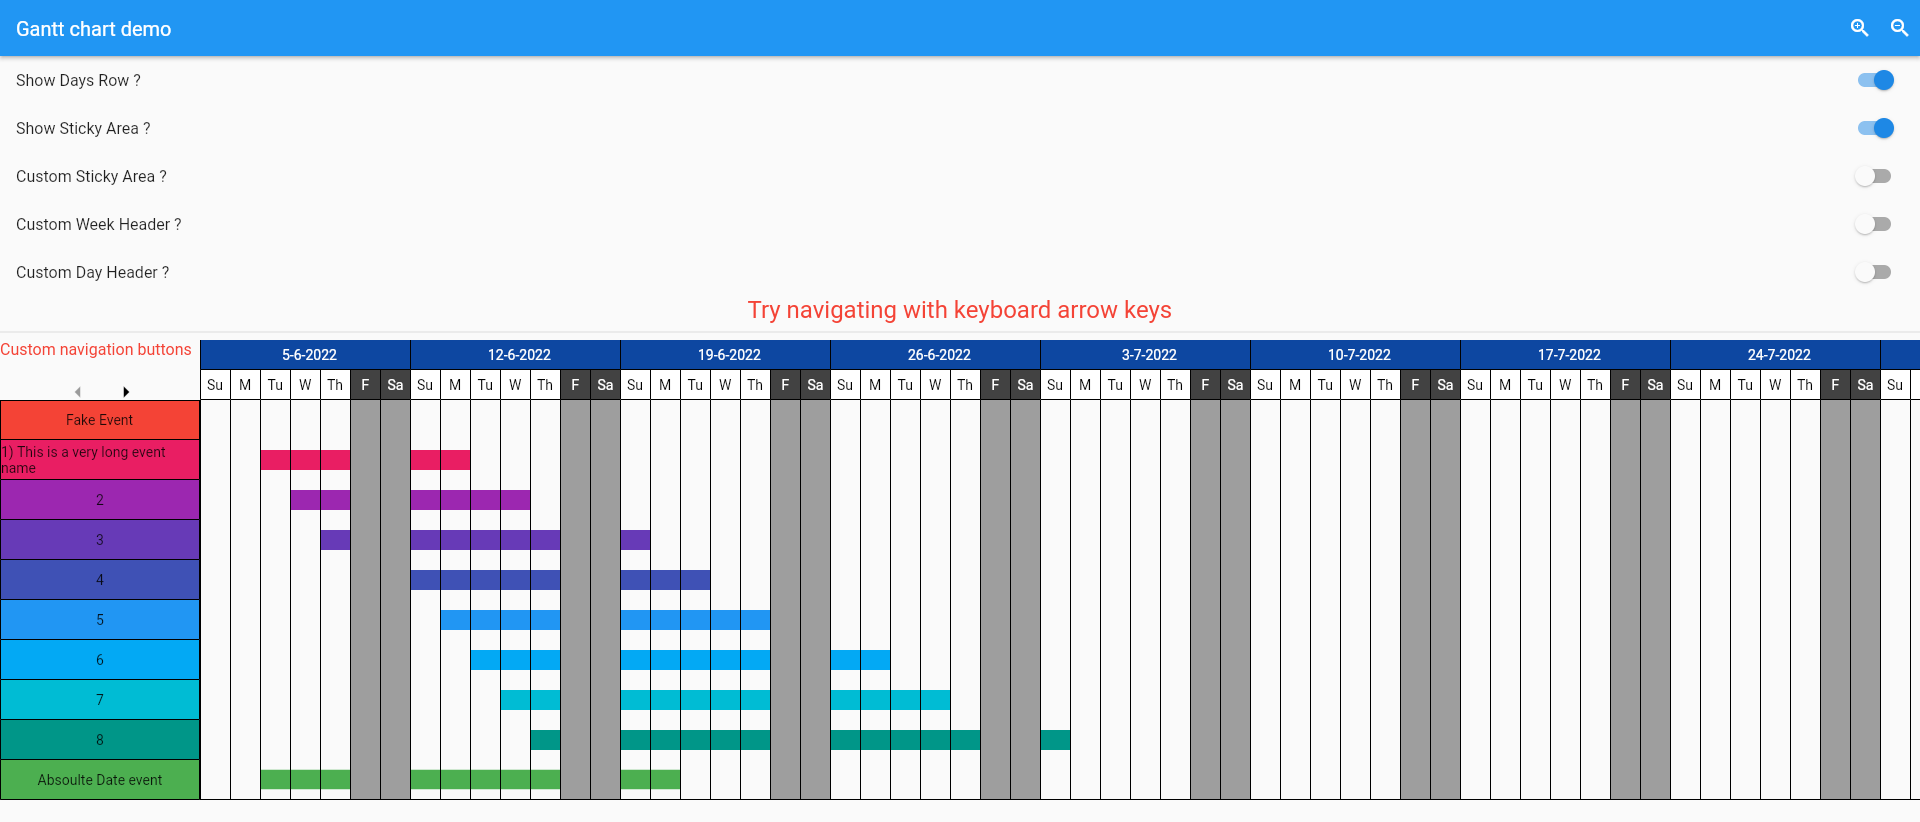
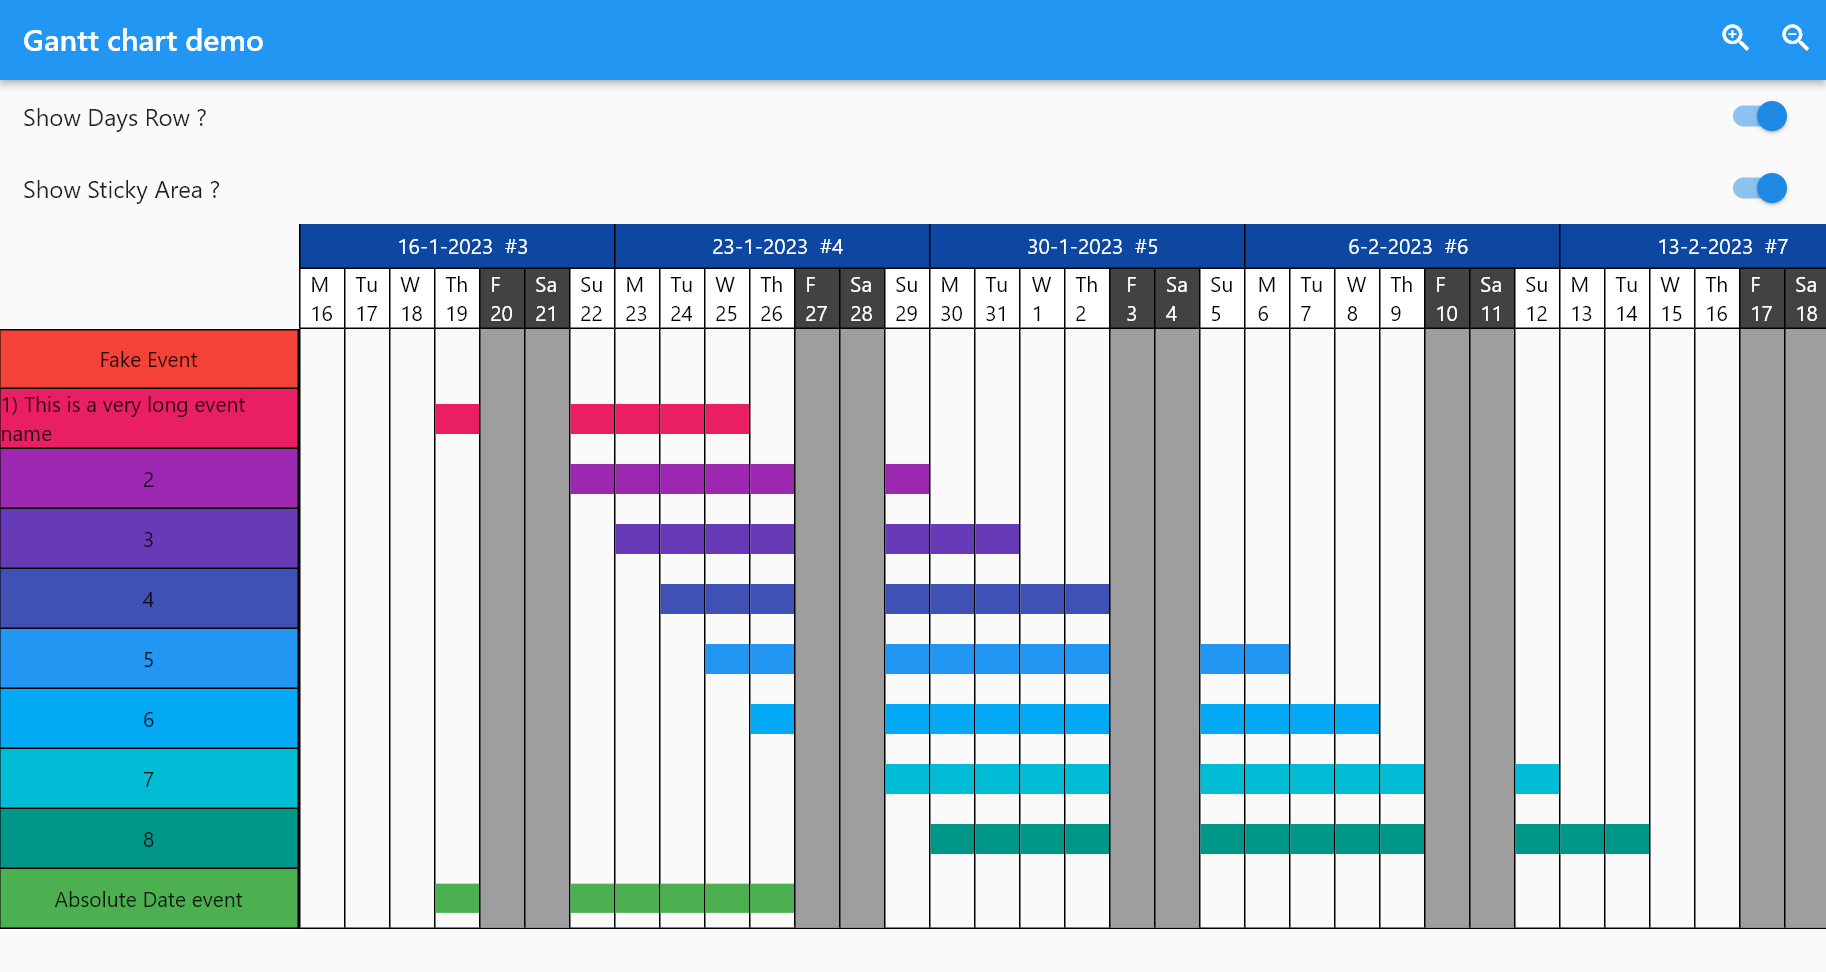
Some additions 2 (#6)
* adding day n° + week number
* added dependency on week_of_year

---------

diff --git a/lib/src/gantt_view.dart b/lib/src/gantt_view.dart
@@ -28,7 +28,7 @@ class GanttChartView extends StatefulWidget {
     this.dayWidth = 30,
     this.eventHeight = 30,
     this.weekHeaderHeight = 30,
-    this.dayHeaderHeight = 30,
+    this.dayHeaderHeight = 40,
     this.weekEnds = const {WeekDay.friday, WeekDay.saturday},
     this.dayHeaderBuilder,
     this.weekHeaderBuilder,
@@ -95,7 +95,8 @@ class GanttChartView extends StatefulWidget {
   /// the week header builder (gets called for every week)
   ///
   /// [weekDate] is the start of the week, which will always be a [startOfTheWeek]
-  final Widget Function(BuildContext context, DateTime weekDate)? weekHeaderBuilder;
+  final Widget Function(BuildContext context, DateTime weekDate)?
+      weekHeaderBuilder;
 
   /// Show sticky row headers on the left
   final bool showStickyArea;
@@ -104,7 +105,8 @@ class GanttChartView extends StatefulWidget {
   final double stickyAreaWidth;
 
   /// the day header builder
-  final Widget Function(BuildContext context, DateTime date, bool isHoliday)? dayHeaderBuilder;
+  final Widget Function(BuildContext context, DateTime date, bool isHoliday)?
+      dayHeaderBuilder;
 
   /// Custom builder for the event row per week
   ///
@@ -177,7 +179,9 @@ class GanttChartViewState extends State<GanttChartView> {
   final eventColors = <Color>[];
   void initFromCurrentWidget() {
     eventColors.clear();
-    eventColors.addAll(widget.events.mapIndexed((index, element) => element.suggestedColor ?? Colors.primaries[index % Colors.primaries.length]));
+    eventColors.addAll(widget.events.mapIndexed((index, element) =>
+        element.suggestedColor ??
+        Colors.primaries[index % Colors.primaries.length]));
     controller = widget.scrollController ?? ScrollController();
     startDate = DateUtils.dateOnly(widget.startDate);
     weekOfStartDate = getWeekOf(startDate);
@@ -194,7 +198,8 @@ class GanttChartViewState extends State<GanttChartView> {
     super.didUpdateWidget(oldWidget);
     final newScrollController = widget.scrollController;
     final oldScrollController = oldWidget.scrollController;
-    if (newScrollController != oldScrollController && oldScrollController == null) {
+    if (newScrollController != oldScrollController &&
+        oldScrollController == null) {
       //moves from null to not-null, dispose self-created controller
       controller.dispose();
     }
@@ -247,7 +252,8 @@ class GanttChartViewState extends State<GanttChartView> {
                   final eventColor = eventColors[index];
                   return SizedBox(
                     height: widget.eventHeight,
-                    child: widget.stickyAreaEventBuilder?.call(context, index, event, eventColor) ??
+                    child: widget.stickyAreaEventBuilder
+                            ?.call(context, index, event, eventColor) ??
                         GanttChartDefaultStickyAreaCell(
                           event: event,
                           eventIndex: index,
@@ -260,13 +266,17 @@ class GanttChartViewState extends State<GanttChartView> {
           ),
         Expanded(
           child: SizedBox(
-            height: widget.weekHeaderHeight + (widget.showDays ? widget.dayHeaderHeight : 0) + (widget.eventHeight * widget.events.length),
+            height: widget.weekHeaderHeight +
+                (widget.showDays ? widget.dayHeaderHeight : 0) +
+                (widget.eventHeight * widget.events.length),
             child: ListView.builder(
               physics: widget.scrollPhysics,
               itemExtent: weekWidth,
               scrollDirection: Axis.horizontal,
               controller: controller,
-              itemCount: widget.maxDuration == null ? null : (widget.maxDuration!.inDays / 7).ceil(),
+              itemCount: widget.maxDuration == null
+                  ? null
+                  : (widget.maxDuration!.inDays / 7).ceil(),
               itemBuilder: (context, index) {
                 //map index to week
 
@@ -281,24 +291,28 @@ class GanttChartViewState extends State<GanttChartView> {
                     SizedBox(
                       height: widget.weekHeaderHeight,
                       width: weekWidth,
-                      child: widget.weekHeaderBuilder?.call(context, weekDate) ??
-                          GanttChartDefaultWeekHeader(
-                            weekDate: weekDate,
-                          ),
+                      child:
+                          widget.weekHeaderBuilder?.call(context, weekDate) ??
+                              GanttChartDefaultWeekHeader(
+                                weekDate: weekDate,
+                              ),
                     ),
                     if (widget.showDays)
                       SizedBox(
                         height: widget.dayHeaderHeight,
                         child: Row(
                           crossAxisAlignment: CrossAxisAlignment.stretch,
-                          children: List<Widget>.generate(DateTime.daysPerWeek, (i) {
+                          children:
+                              List<Widget>.generate(DateTime.daysPerWeek, (i) {
                             final day = weekDate.add(Duration(days: i));
                             final isHoliday = isHolidayCached(context, day);
                             //Header row
                             return SizedBox(
                               width: widget.dayWidth,
-                              child: widget.dayHeaderBuilder?.call(context, day, isHoliday) ??
-                                  GanttChartDefaultDayHeader(date: day, isHoliday: isHoliday),
+                              child: widget.dayHeaderBuilder
+                                      ?.call(context, day, isHoliday) ??
+                                  GanttChartDefaultDayHeader(
+                                      date: day, isHoliday: isHoliday),
                             );
                           }).toList(),
                         ),
@@ -324,7 +338,9 @@ class GanttChartViewState extends State<GanttChartView> {
                         return Container(
                           decoration: BoxDecoration(
                             border: Border(
-                              bottom: index == widget.events.length - 1 ? const BorderSide() : BorderSide.none,
+                              bottom: index == widget.events.length - 1
+                                  ? const BorderSide()
+                                  : BorderSide.none,
                             ),
                           ),
                           height: widget.eventHeight,

diff --git a/example/lib/main.dart b/example/lib/main.dart
@@ -14,6 +14,7 @@ class MyCustomScrollBehavior extends MaterialScrollBehavior {
   Set<PointerDeviceKind> get dragDevices => {
         PointerDeviceKind.touch,
         PointerDeviceKind.mouse,
+        PointerDeviceKind.trackpad
         // etc.
       };
 }
@@ -28,9 +29,7 @@ class MyApp extends StatelessWidget {
       debugShowCheckedModeBanner: false,
       scrollBehavior: MyCustomScrollBehavior(),
       title: 'Flutter Demo',
-      theme: ThemeData(
-        primarySwatch: Colors.blue,
-      ),
+      theme: ThemeData(primarySwatch: Colors.blue),
       home: const MyHomePage(),
     );
   }
@@ -75,12 +74,14 @@ class _MyHomePageState extends State<MyHomePage> {
       autofocus: true,
       onKey: (event) {
         if (event.isKeyPressed(LogicalKeyboardKey.arrowRight)) {
-          if (scrollController.offset < scrollController.position.maxScrollExtent) {
+          if (scrollController.offset <
+              scrollController.position.maxScrollExtent) {
             scrollController.jumpTo(scrollController.offset + 50);
           }
         }
         if (event.isKeyPressed(LogicalKeyboardKey.arrowLeft)) {
-          if (scrollController.offset > scrollController.position.minScrollExtent) {
+          if (scrollController.offset >
+              scrollController.position.minScrollExtent) {
             scrollController.jumpTo(scrollController.offset - 50);
           }
         }
@@ -165,7 +166,8 @@ class _MyHomePageState extends State<MyHomePage> {
                           IconButton(
                             onPressed: currentOffset > 0
                                 ? () {
-                                    scrollController.jumpTo(scrollController.offset - 50);
+                                    scrollController
+                                        .jumpTo(scrollController.offset - 50);
                                   }
                                 : null,
                             color: Colors.black,
@@ -178,7 +180,8 @@ class _MyHomePageState extends State<MyHomePage> {
                           IconButton(
                             onPressed: currentOffset < maxOffset
                                 ? () {
-                                    scrollController.jumpTo(scrollController.offset + 50);
+                                    scrollController
+                                        .jumpTo(scrollController.offset + 50);
                                   }
                                 : null,
                             color: Colors.black,
@@ -200,11 +203,13 @@ class _MyHomePageState extends State<MyHomePage> {
                 stickyAreaWidth: 200,
                 showStickyArea: showStickyArea,
                 stickyAreaEventBuilder: customStickyArea
-                    ? (context, eventIndex, event, eventColor) => eventIndex == 0
+                    ? (context, eventIndex, event, eventColor) => eventIndex ==
+                            0
                         ? Container(
                             color: Colors.yellow,
                             child: Center(
-                              child: Text("Custom Widget: ${event.displayName}"),
+                              child:
+                                  Text("Custom Widget: ${event.displayName}"),
                             ),
                           )
                         : GanttChartDefaultStickyAreaCell(
@@ -227,11 +232,13 @@ class _MyHomePageState extends State<MyHomePage> {
                         ))
                     : null,
                 dayHeaderBuilder: customDayHeader
-                    ? (context, date, bool isHoliday) => GanttChartDefaultDayHeader(
+                    ? (context, date, bool isHoliday) =>
+                        GanttChartDefaultDayHeader(
                           date: date,
                           isHoliday: isHoliday,
                           color: isHoliday ? Colors.yellow : Colors.black,
-                          backgroundColor: isHoliday ? Colors.grey : Colors.yellow,
+                          backgroundColor:
+                              isHoliday ? Colors.grey : Colors.yellow,
                         )
                     : null,
                 showDays: showDaysRow,

diff --git a/lib/src/gantt_default_week_header.dart b/lib/src/gantt_default_week_header.dart
@@ -1,4 +1,6 @@
 import 'package:flutter/material.dart';
+// import 'package:gantt_chart/src/dateweek_ext.dart';
+import 'package:week_of_year/week_of_year.dart';
 
 class GanttChartDefaultWeekHeader extends StatelessWidget {
   static const defaultColor = Colors.white;
@@ -19,6 +21,8 @@ class GanttChartDefaultWeekHeader extends StatelessWidget {
   }) : super(key: key);
   final DateTime weekDate;
 
+  int get weekNumberWithinThisYear => weekDate.weekOfYear;
+
   @override
   Widget build(BuildContext context) {
     return Container(
@@ -36,20 +40,24 @@ class GanttChartDefaultWeekHeader extends StatelessWidget {
         bottom: BorderSide(),
       );
 
-  Widget _defaultChild(BuildContext context) =>
-      Center(child: LayoutBuilder(builder: (context, constraints) {
-        String txt;
-        if (constraints.maxWidth < 50) {
-          txt = weekDate.month.toString();
-        } else if (constraints.maxWidth < 7 * 20) {
-          txt = '${weekDate.month}-${weekDate.year % 100}';
-        } else {
-          txt = '${weekDate.day}-${weekDate.month}-${weekDate.year}';
-        }
+  Widget _defaultChild(BuildContext context) => Center(
+        child: LayoutBuilder(
+          builder: (context, constraints) {
+            String txt;
+            if (constraints.maxWidth < 50) {
+              txt = weekDate.month.toString();
+            } else if (constraints.maxWidth < 7 * 20) {
+              txt = '${weekDate.month}-${weekDate.year % 100}';
+            } else {
+              txt =
+                  '${weekDate.day}-${weekDate.month}-${weekDate.year}  #$weekNumberWithinThisYear';
+            }
 
-        return Text(
-          txt,
-          style: TextStyle(color: color ?? defaultColor),
-        );
-      }));
+            return Text(
+              txt,
+              style: TextStyle(color: color ?? defaultColor),
+            );
+          },
+        ),
+      );
 }

diff --git a/lib/src/gantt_default_event_cell_per_day.dart b/lib/src/gantt_default_event_cell_per_day.dart
@@ -35,7 +35,8 @@ class GanttChartDefaultEventRowPerDayBuilder extends StatelessWidget {
   @override
   Widget build(BuildContext context) {
     final isWithinEvent = !DateUtils.isSameDay(actStartDate, actEndDate) &&
-        (DateUtils.isSameDay(actStartDate, dayDate) || dayDate.isAfter(actStartDate) && dayDate.isBefore(actEndDate));
+        (DateUtils.isSameDay(actStartDate, dayDate) ||
+            dayDate.isAfter(actStartDate) && dayDate.isBefore(actEndDate));
 
     final color = isHoliday
         ? (holidayColor ?? defaultHolidayColor)

diff --git a/lib/src/gantt_default_day_header.dart b/lib/src/gantt_default_day_header.dart
@@ -50,7 +50,7 @@ class GanttChartDefaultDayHeader extends StatelessWidget {
 
   Widget _defaultChild(BuildContext context) => Center(
         child: Text(
-          WeekDay.fromIntWeekday(date.weekday).symbol,
+          '${WeekDay.fromIntWeekday(date.weekday).symbol}\n${date.day}',
           style: TextStyle(color: color ?? _defaultColor(isHoliday)),
         ),
       );

diff --git a/CHANGELOG.md b/CHANGELOG.md
@@ -1,3 +1,7 @@
+## 0.3.0 - 09 February 2023
+
+* Added Week numbers - [PR #5](https://github.com/Bdaya-Dev/flutter_gantt_chart/pull/5) [PR #6](https://github.com/Bdaya-Dev/flutter_gantt_chart/pull/6)
+
 ## 0.2.0 - 22 January 2023
 
 * Improve UI customizability by exposing default widgets colors and builders. ([PR #7](https://github.com/Bdaya-Dev/flutter_gantt_chart/pull/7))
